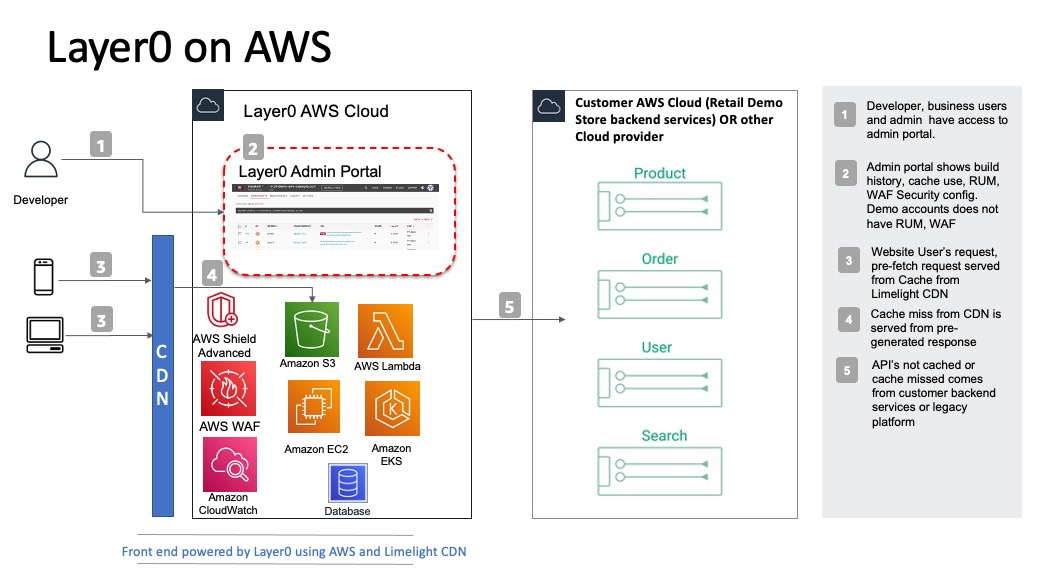
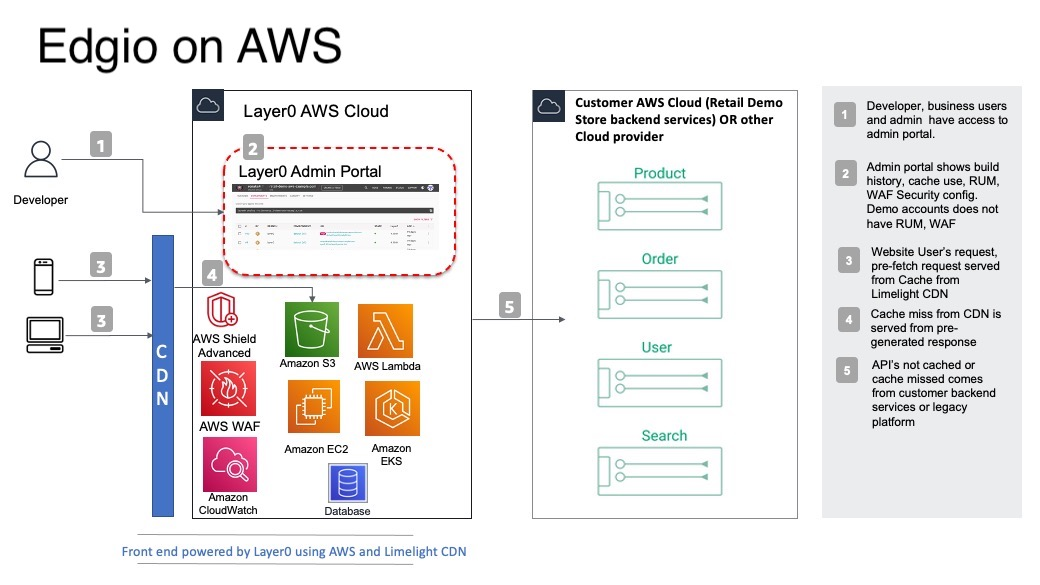
Rename Layer0 to Edgio

Changed region(s): [[0.0308, 0.0308, 0.3385, 0.1231]]

diff --git a/src/web-ui/public/index.html b/src/web-ui/public/index.html
@@ -11,8 +11,8 @@
     <link rel="stylesheet" href="https://stackpath.bootstrapcdn.com/bootstrap/4.3.1/css/bootstrap.min.css" integrity="sha384-ggOyR0iXCbMQv3Xipma34MD+dH/1fQ784/j6cY/iJTQUOhcWr7x9JvoRxT2MZw1T" crossorigin="anonymous">
     <link rel="stylesheet" href="https://use.fontawesome.com/releases/v5.3.1/css/all.css" integrity="sha384-mzrmE5qonljUremFsqc01SB46JvROS7bZs3IO2EmfFsd15uHvIt+Y8vEf7N7fWAU" crossorigin="anonymous">
     <title>Retail Demo Store</title>
-    <!-- Layer0 -->
-    <%= VUE_APP_LAYER0_ENABLED === 'true' ? `<script src="/__layer0__/cache-manifest.js" defer="defer"></script><script src="/main.js" defer="defer"></script><script src="/service-worker.js" defer="defer"></script>`: '' %>
+    <!-- Edgio -->
+    <%= VUE_APP_EDGIO_ENABLED === 'true' ? `<script src="/__layer0__/cache-manifest.js" defer="defer"></script><script src="/main.js" defer="defer"></script><script src="/service-worker.js" defer="defer"></script>`: '' %>
     <!-- This code is for the Segment integration - DO NOT REMOVE -->
     <%= VUE_APP_SEGMENT_WRITE_KEY === 'NONE' ? '' : `<script>\r\n  !function(){var analytics=window.analytics=window.analytics||[];if(!analytics.initialize)if(analytics.invoked)window.console&&console.error&&console.error(\"Segment snippet included twice.\");else{analytics.invoked=!0;analytics.methods=[\"trackSubmit\",\"trackClick\",\"trackLink\",\"trackForm\",\"pageview\",\"identify\",\"reset\",\"group\",\"track\",\"ready\",\"alias\",\"debug\",\"page\",\"once\",\"off\",\"on\",\"addSourceMiddleware\",\"addIntegrationMiddleware\",\"setAnonymousId\",\"addDestinationMiddleware\"];analytics.factory=function(e){return function(){var t=Array.prototype.slice.call(arguments);t.unshift(e);analytics.push(t);return analytics}};for(var e=0;e<analytics.methods.length;e++){var key=analytics.methods[e];analytics[key]=analytics.factory(key)}analytics.load=function(key,e){var t=document.createElement(\"script\");t.type=\"text\/javascript\";t.async=!0;t.src=\"https:\/\/cdn.segment.com\/analytics.js\/v1\/\" + key + \"\/analytics.min.js\";var n=document.getElementsByTagName(\"script\")[0];n.parentNode.insertBefore(t,n);analytics._loadOptions=e};analytics.SNIPPET_VERSION=\"4.13.1\";\r\n  analytics.load(\"${VUE_APP_SEGMENT_WRITE_KEY}\");\r\n analytics.page();\r\n }}();\r\n<\/script>` %>
   </head>

diff --git a/src/web-ui/edgio/browser.js b/src/web-ui/edgio/browser.js
@@ -5,11 +5,11 @@ import installDevtools from "@layer0/devtools/install";
 import install from "@layer0/prefetch/window/install";
 
 document.addEventListener("DOMContentLoaded", () => {
-  // Register Layer0 Service Worker
-  console.info("[Layer0 browser] DOMContentLoaded -> running install()");
+  // Register Edgio Service Worker
+  console.info("[Edgio browser] DOMContentLoaded -> running install()");
   install();
 
-  // Add Layer0 Devtools (https://docs.layer0.co/guides/devtools)
-  console.info("[Layer0 browser] DOMContentLoaded -> running installDevtools()");
+  // Add Edgio Devtools (https://docs.edg.io/guides/devtools)
+  console.info("[Edgio browser] DOMContentLoaded -> running installDevtools()");
   installDevtools();
 });

diff --git a/src/web-ui/edgio/routes.js b/src/web-ui/edgio/routes.js
@@ -6,7 +6,7 @@ import { CACHE_ASSETS, CACHE_PAGES } from "./cache";
 import transform from "./transform";
 
 const DIST_APP = "dist";
-const DIST_LAYER0 = "dist-layer0";
+const DIST_EDGIO = "dist-layer0";
 
 const router = new Router();
 
@@ -16,14 +16,14 @@ router.prerender([
   "/",
 ]);
 
-// layer0 static files
+// Edgio static files
 router.get("/service-worker.js", ({ serviceWorker, cache }) => {
   cache(CACHE_PAGES);
-  serviceWorker(`${DIST_LAYER0}/service-worker.js`);
+  serviceWorker(`${DIST_EDGIO}/service-worker.js`);
 });
 router.get("/main.js", ({ serveStatic, cache }) => {
   cache(CACHE_PAGES);
-  serveStatic(`${DIST_LAYER0}/browser.js`);
+  serveStatic(`${DIST_EDGIO}/browser.js`);
 });
 
 // retail demo store services

diff --git a/src/web-ui/edgio/webpack.layer0.config.js b/src/web-ui/edgio/webpack.layer0.config.js
@@ -6,8 +6,8 @@ const webpack = require('webpack');
 
 module.exports = {
   entry: {
-    browser: './layer0/browser.js',
-    'service-worker': './layer0/service-worker.js',
+    browser: './edgio/browser.js',
+    'service-worker': './edgio/service-worker.js',
   },
   mode: 'production',
   resolve: {

diff --git a/src/web-ui/layer0.config.js b/src/web-ui/layer0.config.js
@@ -59,7 +59,7 @@ const locationService = buildServiceDomain(
 const imageService = process.env.AWS_IMAGE_SERVICE_DOMAIN;
 
 module.exports = {
-  routes: "./layer0/routes.js",
+  routes: "./edgio/routes.js",
   includeFiles: {
     ".env": true,
   },

diff --git a/src/web-ui/edgio/transform.js b/src/web-ui/edgio/transform.js
@@ -1,5 +1,5 @@
 export default function transform(response, request) {
-  console.log("[LAYER0 TRANSFORM]", response);
+  console.log("[EDGIO TRANSFORM]", response);
 
   if (response.body) {
     try {

diff --git a/README.md b/README.md
@@ -41,7 +41,7 @@ AWS Partner | Workshops Overview | Workshop Links | Level | Duration
 <img src="./workshop/images/mparticle.svg" height=64px/> | [mParticle](https://mparticle.com/) is a Customer Data Platform that allows any brand to ingest data from multiple sources in real-time, apply data quality and governance over the ingested data and orchestrate the data to any marketing and technology stack your organization is using.  In this workshop, you will configure real-time event flows to Amazon Personalize using the mParticle SDKs and then use that data to create customer profiles that can be used in marketing campaigns to customers via Braze. | [Real Time Personalization Events](./workshop/1-Personalization/Lab-6-Real-time-events-mParticle.ipynb) <br/><br/> [Personalized Customer Profiles and Messaging with any marketing tool (Braze) and mParticle](./workshop/6-CustomerDataPlatforms/6.2-mParticle.ipynb) | 300 | 1-1.5 hours
 <img src="./workshop/images/optimizely.svg" height=64px/> | In this exercise we will define, launch, and evaluate the results of an A/B experiment of a personalized user experience using [Optimizely](https://www.optimizely.com/). | [AB Experiments for Personalization](./workshop/3-Experimentation/3.6-Optimizely-AB-Experiment.ipynb) | 200 | 30 minutes
 <img src="./workshop/images/segment.svg"/> | [Segment](https://segment.com/) is a real-time events pipeline for customer data, as well as a customer data platform.  In the Retail Demo Store, Segment is used to deliver real-time events from the web user interface to Amazon Personalize.  These real-time events are also used to create customer profile with Amazon Personalize recommendations appended, which can then be used via the CDP to push data to marketing tools. | [Real Time Personalization Events](./workshop/1-Personalization/Lab-5-Real-time-events-Segment.ipynb) <br/><br/> [Customer Data Platforms and Personalize](./workshop/6-CustomerDataPlatforms/6.1-Segment.ipynb) | 300 | 1-1.5 hours
-<img src="./workshop/images/Layer0.svg"/> | [Layer0](https://layer0.co/) extends the capabilities of a traditional CDN by not only hosting your static content, but also providing server-side rendering for progressive web applications. Layer0 allows caching both your APIs and HTML at the network edge to provide your users with the fastest browsing experience. Teams can ship faster leveraging an enhanced developer experience to deploy code faster and with more frequency, view their code quickly in atomically deployed environments, and integrating their CDN configuration to the overall build process. Layer0 provides the tools needed to build the modern apps capable of providing the performance expected by modern consumers.  | [Edge Optimization](./workshop/8-PerformanceOptimization/8.1-Layer0.ipynb) | 200 | 1 hour
+<img src="./workshop/images/Edgio.png"/> | [Edgio](https://edg.io/) extends the capabilities of a traditional CDN by not only hosting your static content, but also providing server-side rendering for progressive web applications. Edgio allows caching both your APIs and HTML at the network edge to provide your users with the fastest browsing experience. Teams can ship faster leveraging an enhanced developer experience to deploy code faster and with more frequency, view their code quickly in atomically deployed environments, and integrating their CDN configuration to the overall build process. Edgio provides the tools needed to build the modern apps capable of providing the performance expected by modern consumers.  | [Edge Optimization](./workshop/8-PerformanceOptimization/8.1-Edgio.ipynb) | 200 | 1 hour
 
 ## Supported Regions
 
